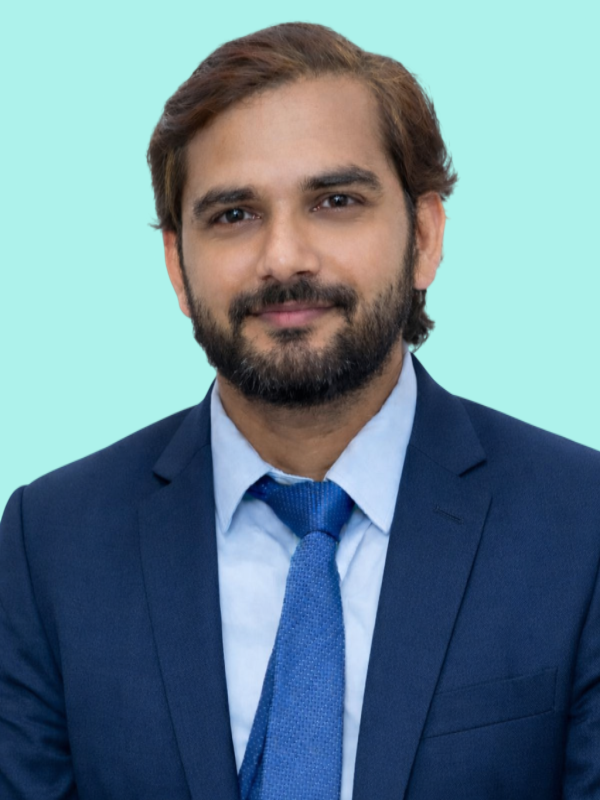
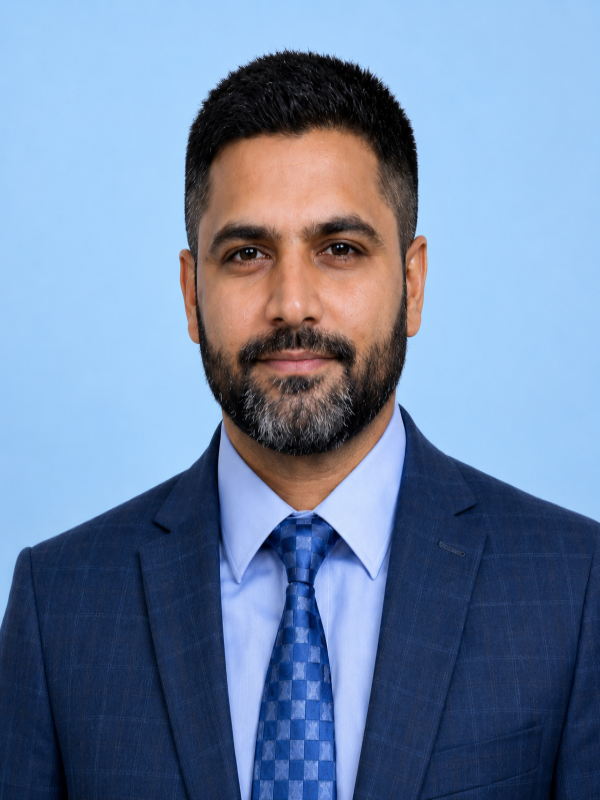
Add files via upload

diff --git a/index.html b/index.html
@@ -1678,7 +1678,7 @@ background:#e67e22;
     <a href="#courses" class="cta-animate">Our Courses</a>
     <a href="#contact" class="cta-animate">Contact Us</a>
     <a href="#founders" class="cta-animate">Know the Founders</a>
-    <a href="#hods" class="cta-animate">Our HODs</a>
+    <a href="#hods" class="cta-animate">Our Educators</a>
     <a href="registration.html" class="cta cta-animate">Enroll Now</a>
     <a href="result.html" class="cta cta-animate">Scholarship Results</a>
   </div>
@@ -1842,7 +1842,7 @@ Founded & Mentored by Dr Ambrish Sir, Mr Satish Sir and Mr Nikhil Sir, VERCHAS A
 
 <section id="hods" class="fade-in">
   <div class="section-center">
-    <h2>Our Head of Departments</h2>
+    <h2>Our Top Educators</h2>
 
     <div class="hod-flex">
 
@@ -1898,18 +1898,15 @@ Founded & Mentored by Dr Ambrish Sir, Mr Satish Sir and Mr Nikhil Sir, VERCHAS A
     </p>
   </div>
 
-  <!-- Discipline -->
+<!-- Botany -->
   <div class="hod-card">
-<div class="hod-department">ENGLISH & DISCIPLINE</div>
-    <img src="HOD5.png" alt="Mr Satish Sir - HOD English & Discipline">
-    <h4>Mr Satish Sir</h4>
+<div class="hod-department">BOTANY</div>
+    <img src="HOD7.png" alt="Dr Awadhesh Sir - HOD Botany">
+    <h4>Dr Awadhesh Sir</h4>
     <p class="hod-qualification">
-      Ex. Indian Air Force<br>
-      MA (English)<br>
-      BSc (Mathematics)<br>
-      Dip. in Electronics<br>
-      Cyber Security (NIELIT)<br>
-      QAS (Aeronautical)
+      PhD, MSc (Botany)<br>
+      Banaras Hindu University<br>
+      (15+ Years of Teaching Experience)
     </p>
   </div>
 
@@ -1922,6 +1919,21 @@ Founded & Mentored by Dr Ambrish Sir, Mr Satish Sir and Mr Nikhil Sir, VERCHAS A
       MSc (Chemistry)<br>
       JNV Alumna<br>
       (7+ Years of Teaching Experience)
+    </p>
+  </div>
+
+<!-- Discipline -->
+  <div class="hod-card">
+<div class="hod-department">ENGLISH & DISCIPLINE</div>
+    <img src="HOD5.png" alt="Mr Satish Sir - HOD English & Discipline">
+    <h4>Mr Satish Sir</h4>
+    <p class="hod-qualification">
+      Ex. Indian Air Force<br>
+      MA (English)<br>
+      BSc (Mathematics)<br>
+      Dip. in Electronics<br>
+      Cyber Security (NIELIT)<br>
+      QAS (Aeronautical)
     </p>
   </div>
 